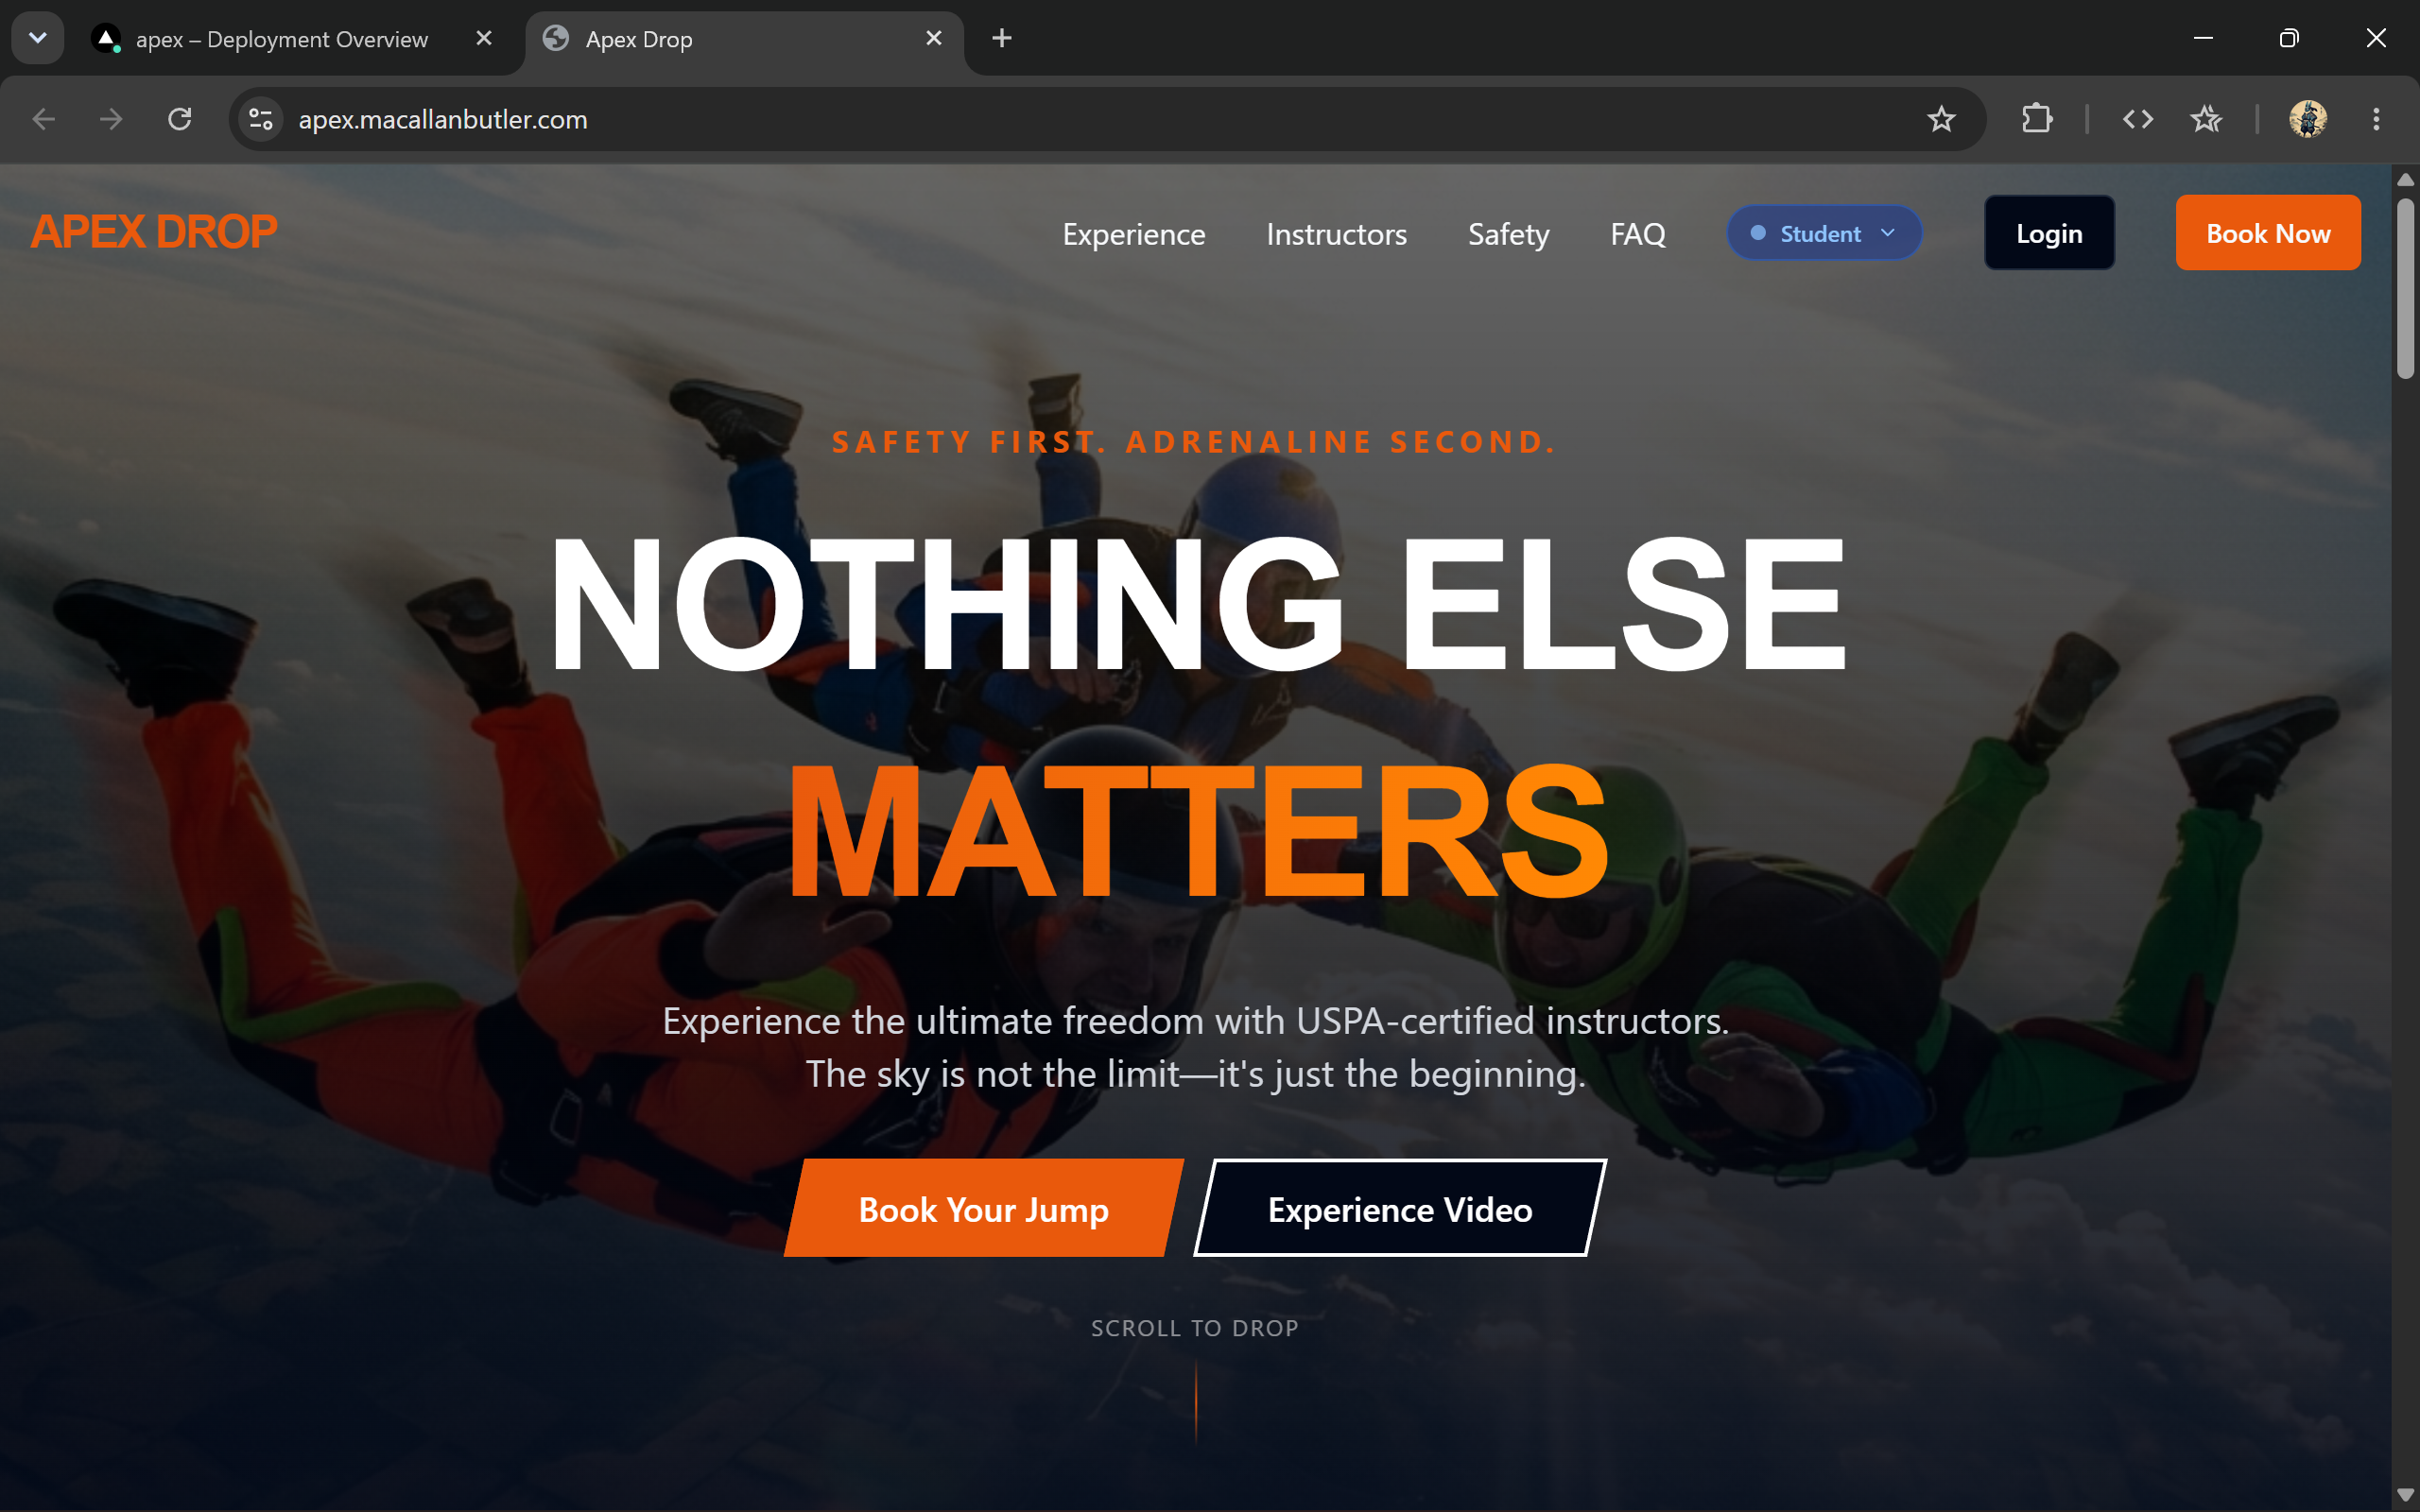
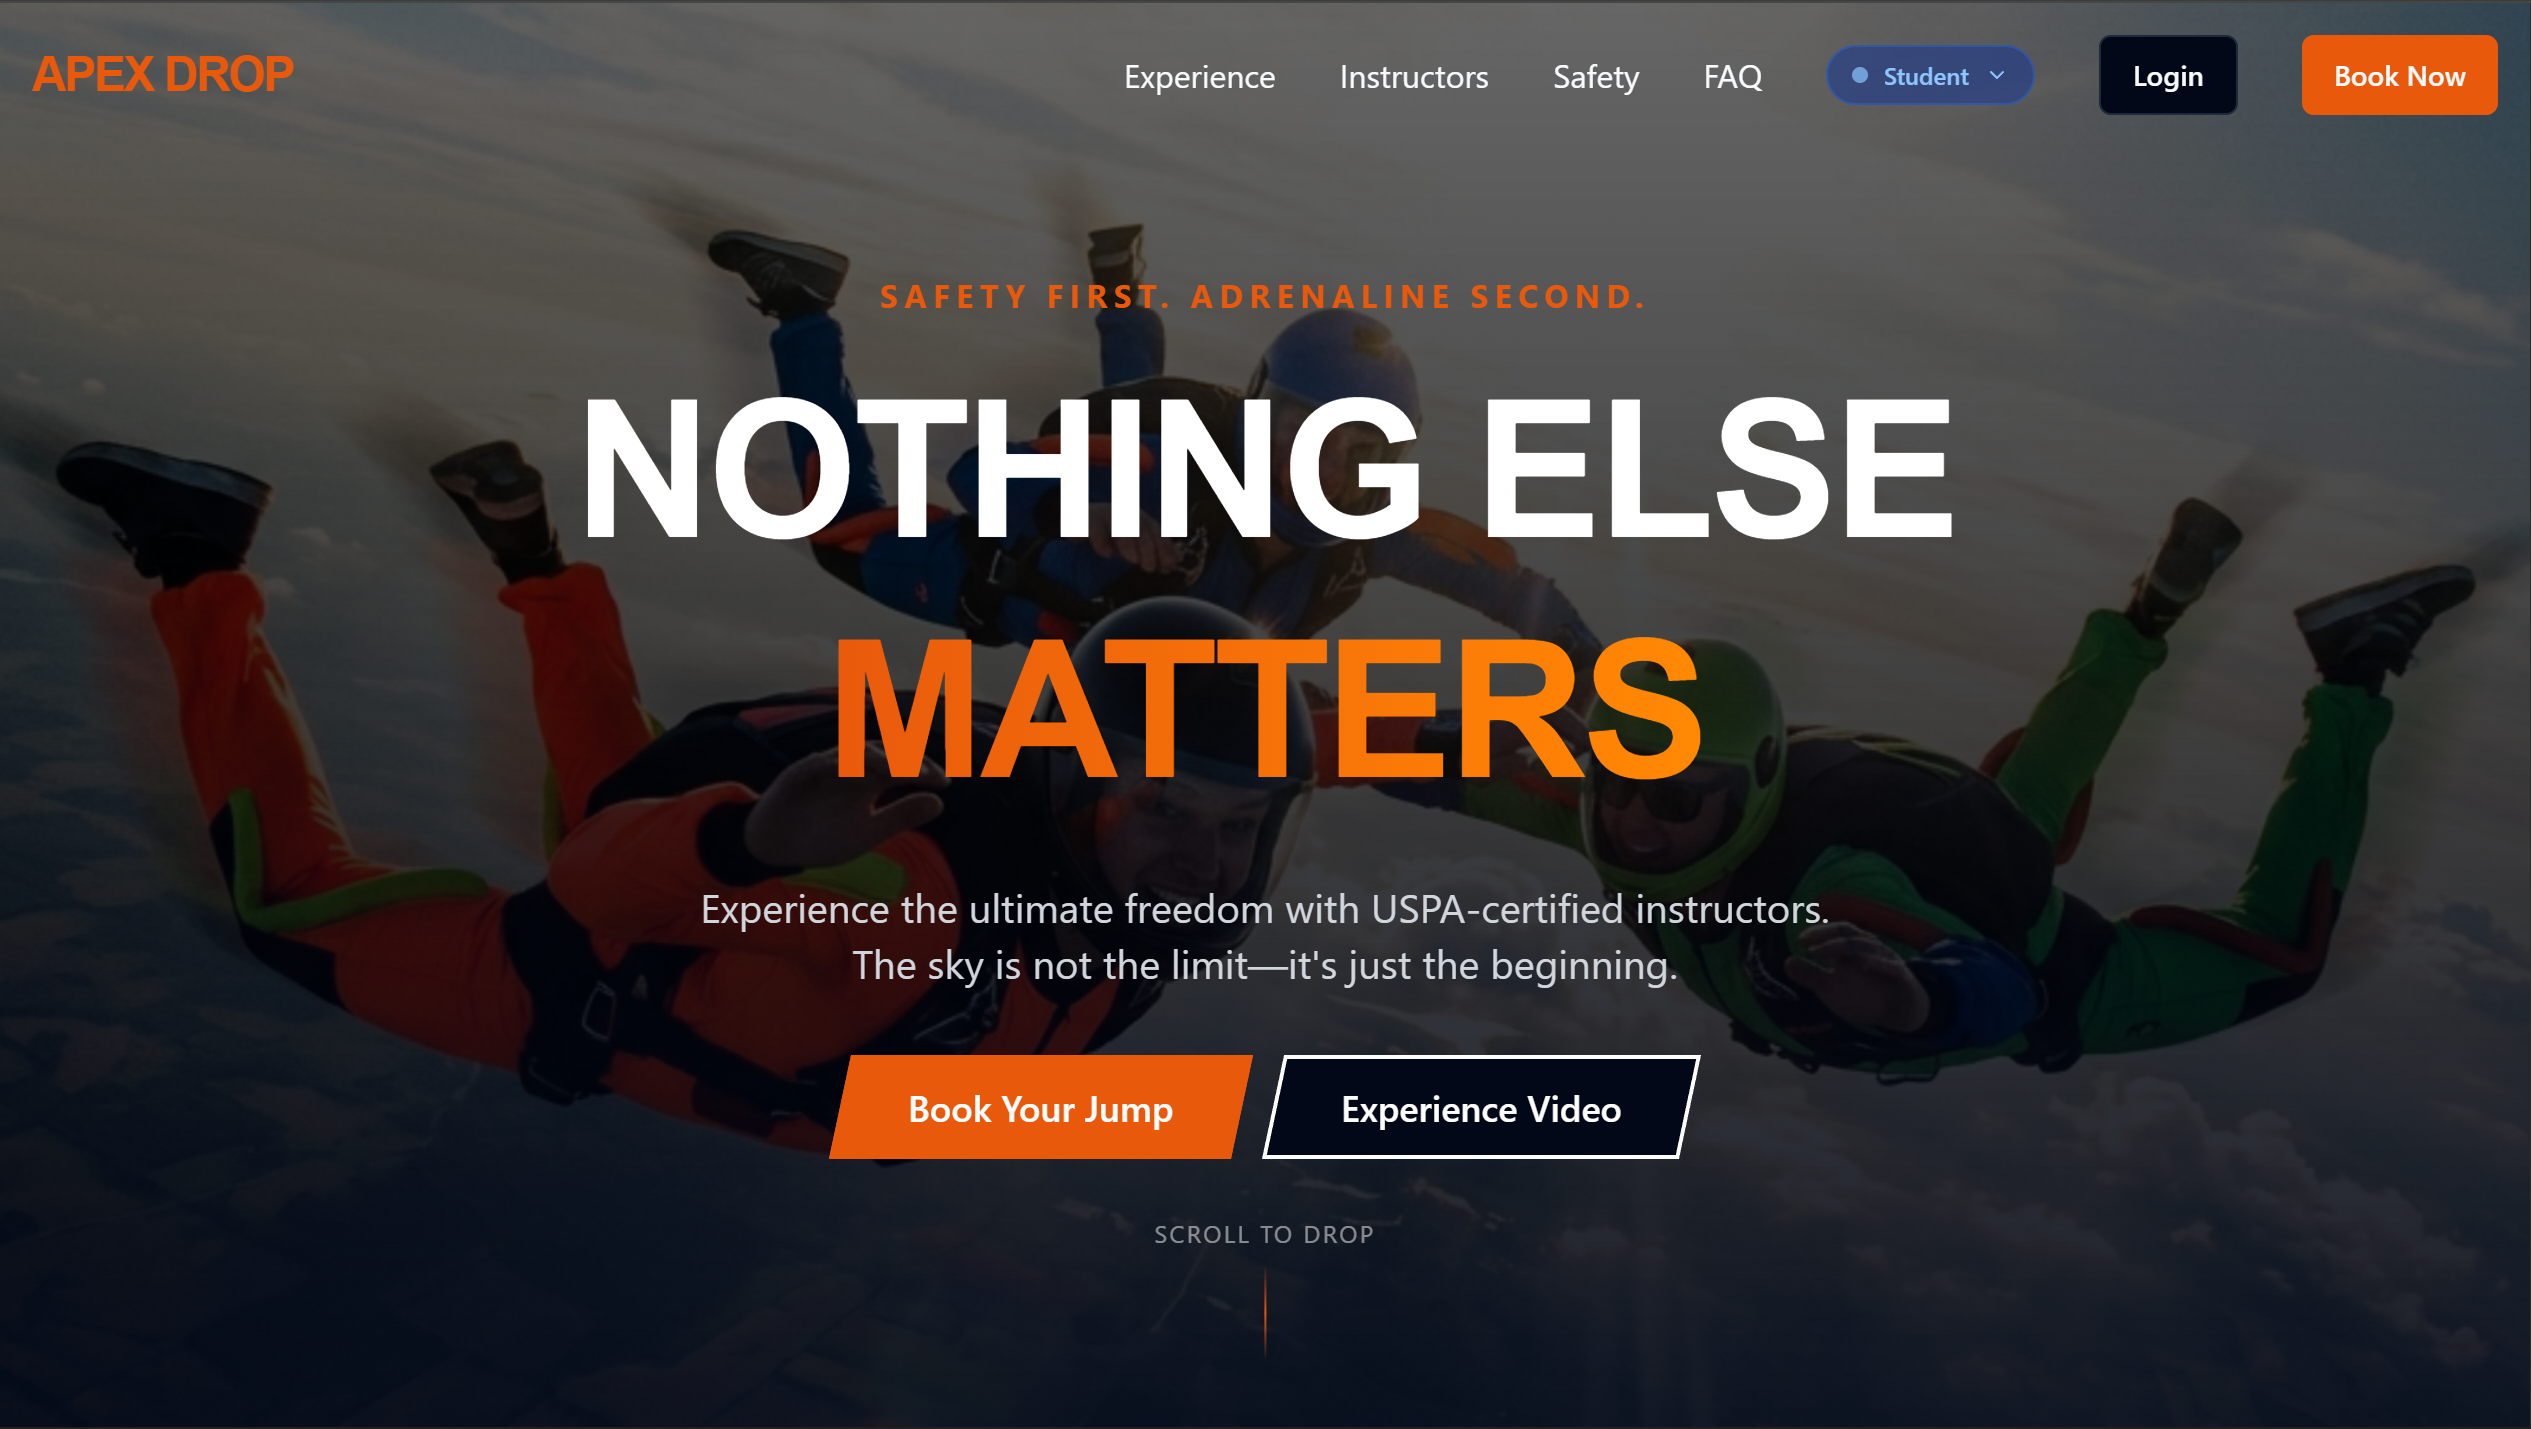
Fix showcase image scaling in ProjectModal

diff --git a/src/components/core/ProjectModal.tsx b/src/components/core/ProjectModal.tsx
@@ -1,11 +1,18 @@
 "use client";
 
 import React, { useEffect } from "react";
+import NextImage from "next/image";
 import { motion, AnimatePresence } from "framer-motion";
 import { useProjectModal } from "@/context/ProjectModalContext";
 import { SystemBadge } from "@/components/core/SystemBadge";
 import { GlitchText } from "@/components/core/GlitchText";
 import { getTechColor } from "@/lib/techColors";
+
+const PREVIEW_MAP: Record<string, string> = {
+  apex_drop:      "/previews/apex_drop.png",
+  blue_horizon:   "/previews/blue_horizon.png",
+  ghost_mountain: "/previews/ghost_mountain.png",
+};
 
 export function ProjectModal() {
   const { activeProject, isClosing, closeProject } = useProjectModal();
@@ -153,40 +160,32 @@ export function ProjectModal() {
 
               {/* RIGHT: Showcase panel */}
               <motion.div
-                className="flex-1 relative overflow-hidden flex items-center justify-center p-6 lg:p-10"
+                className="flex-1 relative overflow-hidden"
                 initial={{ opacity: 0 }}
                 animate={{ opacity: 1 }}
                 transition={{ delay: 0.2, duration: 0.3 }}
               >
-                <ShowcasePlaceholder id={activeProject?.id ?? ""} />
+                {PREVIEW_MAP[activeProject?.id ?? ""] ? (
+                  <NextImage
+                    src={PREVIEW_MAP[activeProject?.id ?? ""]}
+                    alt={`${activeProject?.title ?? ""} showcase`}
+                    width={1920}
+                    height={1080}
+                    className="w-full h-auto object-contain"
+                    sizes="(max-width: 1024px) 100vw, 60vw"
+                    priority
+                  />
+                ) : (
+                  <div className="w-full h-full flex flex-col items-center justify-center border border-dashed border-white/10">
+                    <p className="font-mono text-[10px] text-neon-cyan/50 uppercase tracking-[0.3em]">SHOWCASE_PENDING</p>
+                    <p className="font-mono text-xs text-white/20 mt-2">{activeProject?.id}</p>
+                  </div>
+                )}
               </motion.div>
             </div>
           </motion.div>
         </>
       )}
     </AnimatePresence>
-  );
-}
-
-function ShowcasePlaceholder({ id }: { id: string }) {
-  return (
-    <div className="w-full h-full min-h-[300px] flex flex-col items-center justify-center border border-dashed border-white/10 rounded-sm relative overflow-hidden">
-      <div
-        className="absolute inset-0 opacity-10"
-        style={{
-          backgroundImage: `linear-gradient(rgba(0,255,0,0.2) 1px, transparent 1px), linear-gradient(90deg, rgba(0,255,0,0.2) 1px, transparent 1px)`,
-          backgroundSize: "32px 32px",
-        }}
-      />
-      <motion.div
-        className="absolute left-0 right-0 h-px bg-neon-cyan/30"
-        animate={{ top: ["0%", "100%"] }}
-        transition={{ duration: 3, repeat: Infinity, ease: "linear" }}
-      />
-      <div className="relative z-10 text-center space-y-3">
-        <p className="font-mono text-[10px] text-neon-cyan/50 uppercase tracking-[0.3em]">SHOWCASE_PENDING</p>
-        <p className="font-mono text-xs text-white/20">{id}</p>
-      </div>
-    </div>
   );
 }